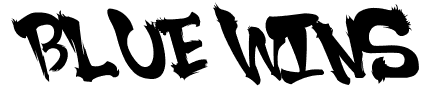
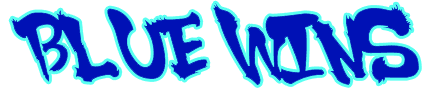
changed win images and added replay button

diff --git a/The-Game/src/Onitama.java b/The-Game/src/Onitama.java
@@ -784,27 +784,32 @@ public class Onitama implements MouseListener
 
 			if(gameOver) 
 			{
-				if(!winMessageDisplayed) 
-				{
-					winMessageDisplayed = true;
-					JOptionPane.showMessageDialog(frame,winner);
-					//panel.repaint();
-				}
-				//DRAW IMAGE ON THE BOARD THAT SAYS WHICH player WINS
+//				if(!winMessageDisplayed) 
+//				{
+//					winMessageDisplayed = true;
+//					JOptionPane.showMessageDialog(frame,winner);
+//					//panel.repaint();
+//				}
+//				//DRAW IMAGE ON THE BOARD THAT SAYS WHICH player WINS
 				if(winner.equals("Red win!"))
 				{
 					try {
-						g.drawImage(ImageIO.read(Onitama.class.getResourceAsStream("/resources/Red Wins.PNG")),196,300,null);
+						g.drawImage(ImageIO.read(Onitama.class.getResourceAsStream("/resources/red wins.png")),196,600,null);
 					} catch (IOException e) {
 						e.printStackTrace();
 					}
 				} else if(winner.equals("Blue win!"))
 				{
 					try {
-						g.drawImage(ImageIO.read(Onitama.class.getResourceAsStream("/resources/Blue Wins.PNG")),177,300,null);
+						g.drawImage(ImageIO.read(Onitama.class.getResourceAsStream("/resources/blue wins.png")),177,80,null);
 					} catch (IOException e) {
 						e.printStackTrace();
 					}
+				}
+				try {
+					g.drawImage(ImageIO.read(Onitama.class.getResourceAsStream("/resources/replay.png")), 300, 350, null);
+				} catch(Exception e) {
+					e.printStackTrace();
 				}
 			}
 
@@ -836,7 +841,7 @@ public class Onitama implements MouseListener
 	public void mouseClicked(MouseEvent e) {//System.out.println("x: "+e.getX()+" y: "+e.getY()); }
 		
 	}
-	public void mouseEntered(MouseEvent e) { }
+	public void mouseEntered(MouseEvent e) { panel.repaint(); }
 	public void mouseExited(MouseEvent e) { }
 
 	public void mousePressed(MouseEvent e) 
